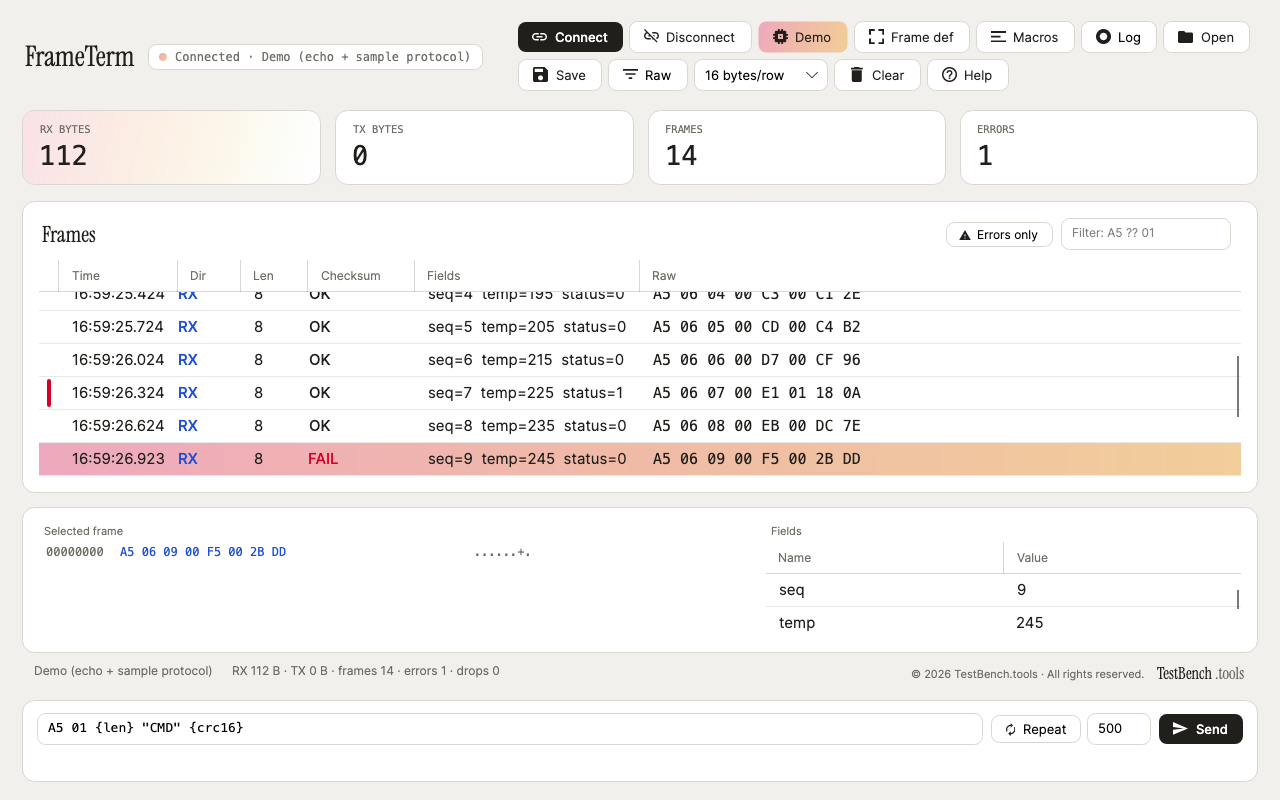
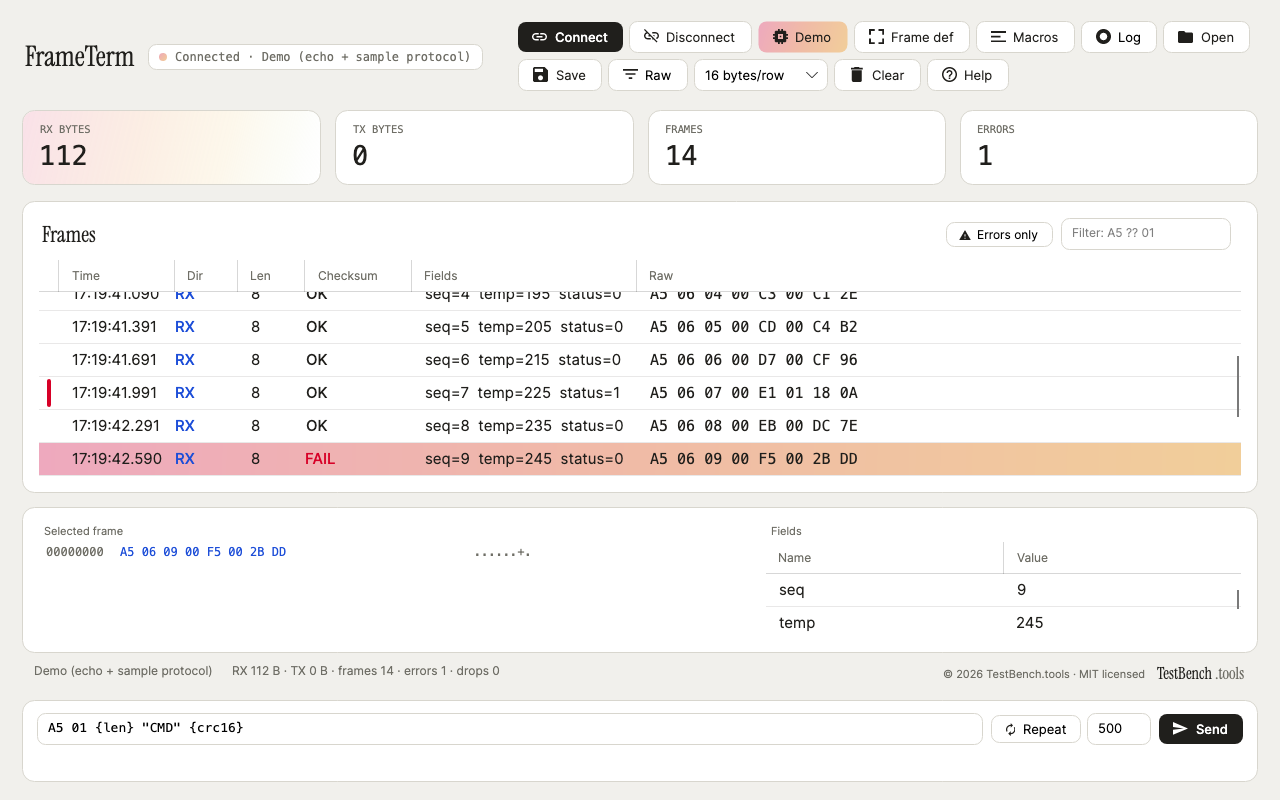
Release under the MIT License
The repository had no license file, which meant the default applied and
nobody could legally use, modify or redistribute any of it — while the
window footer and README said "All rights reserved" outright. Both are
now wrong descriptions of the intent, so: MIT, with the copyright held by
TestBench.tools rather than a personal name so the project stays
transferable.

The footer text and the screenshot that shows it are regenerated to match.
Claude-Session: https://claude.ai/code/session_01X7HHPDwyEKuVPMQ6BTHi9r

diff --git a/README.md b/README.md
@@ -70,6 +70,11 @@ tests/        — xUnit: golden vectors, invariance sweeps, TCP loopback, headle
 
 One design rule mattered most: no blocking I/O on the UI thread. The receive path is a bounded queue with drop counting, so a 921600 bps flood degrades gracefully instead of freezing the window. Time-dependent logic uses an injected clock, which keeps every test deterministic — no sleeps.
 
+## License
+
+MIT — see [LICENSE](LICENSE). Free to use, modify and redistribute,
+including commercially. No warranty.
+
 ---
 
-© 2026 TestBench.tools · All rights reserved.
+© 2026 TestBench.tools · MIT licensed — free and open source.
